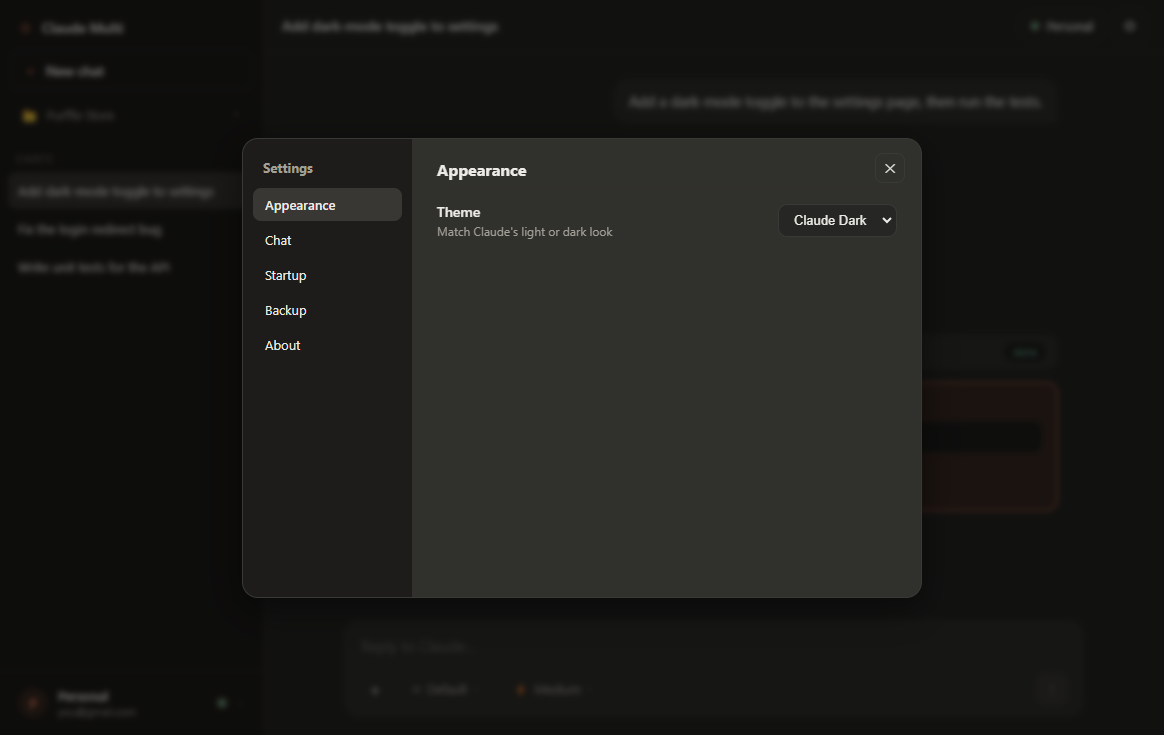
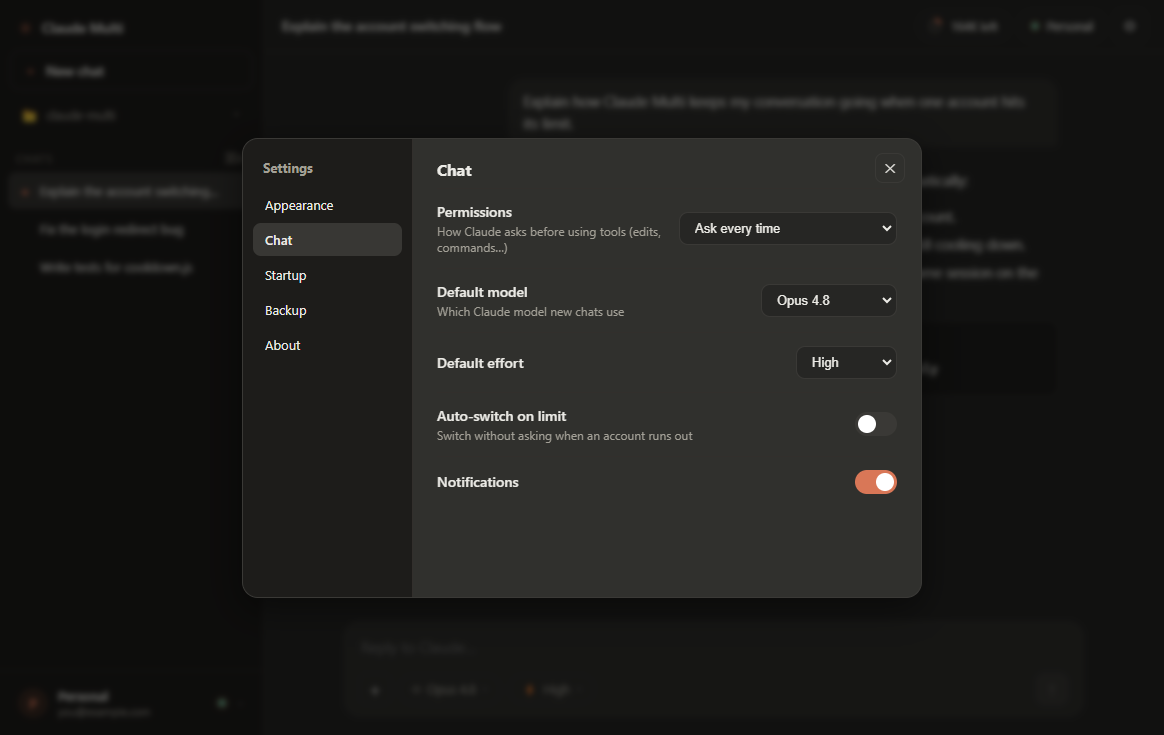
v1.7.0: fix image paste, versioned model selector, live token meter
Fixes
- Image paste was broken because Electron 33 removed the non-standard
  File.path property, so pasted/dropped files resolved to undefined and
  clipboard image-files fell through to clipboard.readImage() (empty ->
  "No image on the clipboard"). Now resolve real files via
  webUtils.getPathForFile, and paste image blobs by reading their bytes
  directly (works for screenshots, "copy image", and image files alike).
- Drag-and-drop attachments fixed the same way (getPathForFile + byte fallback).

Features
- Versioned model selector: Opus 4.8 / 4.7 / 4.6, Sonnet 5 / 4.6, Haiku 4.5
  in the composer chip and Settings; legacy aliases still recognised.
- Live token meter in the top bar: shows tokens remaining in the context
  window with a ring, and a popover breakdown (context used, cache reads,
  session output tokens + cost, and the model actually running). Persists
  per conversation.
- Command palette: quick model / effort switching and jump-to-usage.

Refresh main + settings screenshots; add usage + models screenshots.

diff --git a/src/renderer/renderer.js b/src/renderer/renderer.js
@@ -129,11 +129,23 @@ function renderTop() {
   $('topTitle').textContent = c ? (c.title || 'New chat') : (state.running ? 'Chat' : 'New chat');
   renderModelLabel();
 }
-const MODELS = [['', 'Default'], ['opus', 'Opus'], ['sonnet', 'Sonnet'], ['haiku', 'Haiku']];
+const MODELS = [
+  ['', 'Default (account)'],
+  ['claude-opus-4-8', 'Opus 4.8'],
+  ['claude-opus-4-7', 'Opus 4.7'],
+  ['claude-opus-4-6', 'Opus 4.6'],
+  ['claude-sonnet-5', 'Sonnet 5'],
+  ['claude-sonnet-4-6', 'Sonnet 4.6'],
+  ['claude-haiku-4-5', 'Haiku 4.5'],
+];
+// Legacy aliases → friendly labels, so an older stored setting still reads right.
+const MODEL_ALIASES = { opus: 'Opus', sonnet: 'Sonnet', haiku: 'Haiku' };
 const EFFORTS = [['low', 'Low'], ['medium', 'Medium'], ['high', 'High'], ['ultra', 'Ultrathink']];
-function labelFor(list, id, fb) { const f = list.find((x) => x[0] === id); return f ? f[1] : fb; }
+function labelFor(list, id, fb) { const f = list.find((x) => x[0] === id); if (f) return f[1]; if (list === MODELS && MODEL_ALIASES[id]) return MODEL_ALIASES[id]; return fb; }
+// Short label for the compact chip (drop the "(account)" suffix).
+function shortModelLabel(id) { return labelFor(MODELS, id || '', 'Default').replace(' (account)', ''); }
 function renderModelLabel() {
-  $('modelChipLabel').textContent = labelFor(MODELS, (state.settings && state.settings.model) || '', 'Default');
+  $('modelChipLabel').textContent = shortModelLabel((state.settings && state.settings.model) || '');
   $('effortChipLabel').textContent = labelFor(EFFORTS, (state.settings && state.settings.effort) || 'medium', 'Medium');
 }
 function updateComposer() {
@@ -159,7 +171,53 @@ function renderStarters() {
     box.appendChild(b);
   }
 }
-function renderAll() { renderProject(); renderConvos(); renderAccountRow(); renderTop(); updateComposer(); renderAttachments(); renderStarters(); }
+function renderAll() { renderProject(); renderConvos(); renderAccountRow(); renderTop(); updateComposer(); renderAttachments(); renderStarters(); renderUsage(); }
+
+/* ---------------- token / usage meter ---------------- */
+// Claude Code runs a 200K-token context window by default (the 1M window is a
+// separate opt-in this app doesn't enable), so we measure fill against that.
+const CONTEXT_WINDOW = 200000;
+let usage = { model: '', ctx: 0, lastOut: 0, lastCache: 0, sessOut: 0, sessCost: 0, turns: 0 };
+function resetUsage() { usage = { model: usage.model || '', ctx: 0, lastOut: 0, lastCache: 0, sessOut: 0, sessCost: 0, turns: 0 }; renderUsage(); }
+function applyTurnUsage(u, costUsd) {
+  if (u) {
+    const inp = u.input_tokens || 0;
+    const cacheR = u.cache_read_input_tokens || 0;
+    const cacheC = u.cache_creation_input_tokens || 0;
+    const out = u.output_tokens || 0;
+    usage.ctx = inp + cacheR + cacheC + out;      // ≈ tokens carried into the next turn
+    usage.lastOut = out;
+    usage.lastCache = cacheR + cacheC;
+    usage.sessOut += out;
+  }
+  if (costUsd) usage.sessCost += Number(costUsd) || 0;
+  usage.turns += 1;
+  renderUsage();
+}
+function fmtTokens(n) { n = Math.max(0, Math.round(n || 0)); if (n >= 1000) return (n / 1000).toFixed(n >= 100000 ? 0 : 1).replace(/\.0$/, '') + 'K'; return String(n); }
+function renderUsage() {
+  const pill = $('usagePill'); if (!pill) return;
+  const hasData = usage.ctx > 0 || usage.turns > 0;
+  pill.classList.toggle('hidden', !(state.running && hasData));
+  const pct = Math.max(0, Math.min(100, Math.round((usage.ctx / CONTEXT_WINDOW) * 100)));
+  const left = Math.max(0, CONTEXT_WINDOW - usage.ctx);
+  $('usagePillText').textContent = fmtTokens(left) + ' left';
+  const fill = $('usageRingFill');
+  if (fill) { fill.style.background = `conic-gradient(var(--accent) ${pct * 3.6}deg, var(--border) 0deg)`; }
+  pill.classList.toggle('warn', pct >= 85);
+  // popover
+  const bar = $('usageBar'); if (bar) { bar.style.width = pct + '%'; bar.classList.toggle('warn', pct >= 85); }
+  const set = (id, v) => { const el = $(id); if (el) el.textContent = v; };
+  set('usageModel', usage.model ? shortModelLabel(usage.model) : (shortModelLabel((state.settings || {}).model || '')));
+  set('usageCtxLine', `Context window · ${pct}% used`);
+  set('uCtx', fmtTokens(usage.ctx));
+  set('uLeft', fmtTokens(left));
+  set('uOut', fmtTokens(usage.lastOut));
+  set('uCache', fmtTokens(usage.lastCache));
+  set('uSessOut', fmtTokens(usage.sessOut));
+  set('uCost', '$' + (usage.sessCost || 0).toFixed(usage.sessCost >= 1 ? 2 : 4));
+}
+$('usagePill').onclick = (e) => { e.stopPropagation(); const m = $('usageMenu'); const showing = !m.classList.contains('hidden'); closeMenus(); if (showing) return; renderUsage(); m.classList.remove('hidden'); const r = e.currentTarget.getBoundingClientRect(); m.style.left = Math.max(8, Math.min(r.left, window.innerWidth - 288)) + 'px'; m.style.top = (r.bottom + 8) + 'px'; };
 
 /* ---------------- transcript ---------------- */
 const transcript = $('transcript');
@@ -242,8 +300,12 @@ function appendAssistantDOM(blocks) {
 function renderHistory(log) {
   clearTranscript();
   convo = Array.isArray(log) ? log.map((m) => ({ ...m })) : [];
+  resetUsage();
   if (!convo.length) { const w = $('welcome'); if (w) w.classList.remove('hidden'); return; }
-  for (const m of convo) { if (m.role === 'user') appendUserDOM(m.text); else appendAssistantDOM(m.blocks); }
+  for (const m of convo) {
+    if (m.role === 'user') appendUserDOM(m.text);
+    else { appendAssistantDOM(m.blocks); if (m.usage || m.costUsd) applyTurnUsage(m.usage, m.costUsd); }
+  }
   scrollDown(true);
 }
 function addUserMessage(text) { convo.push({ role: 'user', text }); appendUserDOM(text); persist(); scrollDown(true); }
@@ -278,7 +340,7 @@ function onToolResult(id, isError, text) {
   scrollDown();
 }
 function onErrorLine(text) { hideWelcome(); const el = document.createElement('div'); el.className = 'err-line'; el.textContent = '⚠ ' + text; if (turn && turn.body) turn.body.appendChild(el); else wrap(el); scrollDown(true); }
-function endTurn(meta) { if (turn && turn.blocks.length) { convo.push({ role: 'assistant', blocks: turn.blocks }); persist(); if (turn.msg) decorateAssistant(turn.msg, meta); } turn = null; }
+function endTurn(meta) { if (turn && turn.blocks.length) { convo.push({ role: 'assistant', blocks: turn.blocks, usage: meta && meta.usage, costUsd: meta && meta.costUsd }); persist(); if (turn.msg) decorateAssistant(turn.msg, meta); } turn = null; }
 
 /* ---------------- permission cards ---------------- */
 function onPermission(requestId, tool, input) {
@@ -299,13 +361,14 @@ function summarizePerm(tool, i) { if (!i) return ''; if (i.command) return '$ ' 
 /* ---------------- chat events ---------------- */
 cc.onChat((ev) => {
   switch (ev.type) {
+    case 'ready': if (ev.model) { usage.model = ev.model; renderUsage(); } break;
     case 'assistant_delta': onAssistantDelta(ev.text); break;
     case 'assistant_text': onAssistantText(ev.text); break;
     case 'thinking': onThinking(ev.text); break;
     case 'tool_use': onToolUse(ev.id, ev.name, ev.input); break;
     case 'tool_result': onToolResult(ev.id, ev.isError, ev.text); break;
     case 'permission': onPermission(ev.requestId, ev.tool, ev.input); break;
-    case 'turn_end': endTurn({ usage: ev.usage, costUsd: ev.costUsd }); break;
+    case 'turn_end': applyTurnUsage(ev.usage, ev.costUsd); endTurn({ usage: ev.usage, costUsd: ev.costUsd }); break;
     case 'auth_failed': endTurn(); onErrorLine('This account is not signed in. Open the account switcher and Log in.'); break;
     case 'error': endTurn(); onErrorLine(ev.text || 'Something went wrong.'); break;
     case 'limit': endTurn(); break;
@@ -348,16 +411,46 @@ $('input').addEventListener('keydown', (e) => {
   if (wantSend) { e.preventDefault(); sendMessage(); }
 });
 // Paste images (screenshots / copied images) or files straight into the chat.
+// Electron 32+ removed File.path, so we resolve real files via getPathForFile
+// and handle image blobs by reading their bytes directly — that works even when
+// the OS clipboard holds the image in a format clipboard.readImage can't decode.
 $('input').addEventListener('paste', async (e) => {
   const dt = e.clipboardData; if (!dt) return;
-  const files = Array.from(dt.files || []).map((f) => f.path).filter(Boolean);
-  if (files.length) { e.preventDefault(); attachments = attachments.concat(files); renderAttachments(); toast(files.length + ' file' + (files.length > 1 ? 's' : '') + ' attached', 'ok'); return; }
-  const hasImage = Array.from(dt.items || []).some((it) => it.type && it.type.startsWith('image/'));
-  if (hasImage) {
+  // 1) Real on-disk files (copied in Explorer/Finder, dragged from another app).
+  const filePaths = Array.from(dt.files || []).map((f) => cc.getPathForFile(f)).filter(Boolean);
+  if (filePaths.length) {
     e.preventDefault();
+    attachments = attachments.concat(filePaths); renderAttachments();
+    toast(filePaths.length + ' file' + (filePaths.length > 1 ? 's' : '') + ' attached', 'ok');
+    return;
+  }
+  // 2) Image blobs with no filesystem path (screenshots, "copy image", etc.).
+  const imageItems = Array.from(dt.items || []).filter((it) => it.kind === 'file' && it.type && it.type.startsWith('image/'));
+  if (imageItems.length) {
+    e.preventDefault();
+    let added = 0;
+    for (const it of imageItems) {
+      const file = it.getAsFile(); if (!file) continue;
+      try {
+        const bytes = new Uint8Array(await file.arrayBuffer());
+        const ext = ((file.type.split('/')[1] || 'png').toLowerCase()).replace('jpeg', 'jpg');
+        const r = await cc.savePastedImage(bytes, ext);
+        if (r && r.ok) { attachments.push(r.path); added++; }
+      } catch { /* skip this blob */ }
+    }
+    if (added) { renderAttachments(); toast('Image pasted', 'ok'); }
+    else {
+      // 3) Last resort: pull whatever bitmap the OS clipboard has.
+      const r = await cc.pasteImage();
+      if (r && r.ok) { attachments.push(r.path); renderAttachments(); toast('Image pasted', 'ok'); }
+      else toast((r && r.error) || 'Could not paste image', 'err');
+    }
+    return;
+  }
+  // 4) Nothing usable in the paste event — try the OS clipboard bitmap directly.
+  if (!dt.getData || !dt.getData('text')) {
     const r = await cc.pasteImage();
-    if (r && r.ok) { attachments.push(r.path); renderAttachments(); toast('Image pasted', 'ok'); }
-    else toast((r && r.error) || 'Could not paste image', 'err');
+    if (r && r.ok) { e.preventDefault(); attachments.push(r.path); renderAttachments(); toast('Image pasted', 'ok'); }
   }
 });
 $('stopBtn').onclick = () => cc.interrupt();
@@ -376,8 +469,8 @@ async function addAccount() {
 }
 
 /* ---------------- menus ---------------- */
-function closeMenus() { document.querySelectorAll('.menu.ctx').forEach((n) => n.remove()); $('modelMenu').classList.add('hidden'); $('effortMenu').classList.add('hidden'); }
-document.addEventListener('click', (e) => { if (!e.target.closest('.menu') && !e.target.closest('#accountBtn') && !e.target.closest('#switchPill') && !e.target.closest('#modelChip') && !e.target.closest('#effortChip') && !e.target.closest('.convo-more')) closeMenus(); });
+function closeMenus() { document.querySelectorAll('.menu.ctx').forEach((n) => n.remove()); $('modelMenu').classList.add('hidden'); $('effortMenu').classList.add('hidden'); $('usageMenu').classList.add('hidden'); }
+document.addEventListener('click', (e) => { if (!e.target.closest('.menu') && !e.target.closest('#accountBtn') && !e.target.closest('#switchPill') && !e.target.closest('#modelChip') && !e.target.closest('#effortChip') && !e.target.closest('#usagePill') && !e.target.closest('.convo-more')) closeMenus(); });
 function openChipMenu(menuId, list, key, onPick) {
   const menu = $(menuId);
   if (!menu.classList.contains('hidden')) { menu.classList.add('hidden'); return; }
@@ -508,6 +601,15 @@ function buildCommands() {
   cmds.push({ icon: '🎨', label: 'Toggle light / dark theme', run: async () => { const cur = (state.settings || {}).theme; const next = cur === 'light' ? 'dark' : 'light'; applyTheme(next); state.settings = await cc.setSettings({ theme: next }); } });
   cmds.push({ icon: '⚙', label: 'Open settings', run: () => openSettings() });
   cmds.push({ icon: '⌨', label: 'Keyboard shortcuts', hint: 'Ctrl+/', run: () => $('shortcutsModal').classList.remove('hidden') });
+  // Quick model switch
+  for (const [id, label] of MODELS) {
+    cmds.push({ icon: '◇', label: 'Model: ' + label, hint: (state.settings || {}).model === id ? 'current' : '', run: async () => { state.settings = await cc.setSettings({ model: id }); renderModelLabel(); toast('Model: ' + label, 'ok'); } });
+  }
+  // Quick effort switch
+  for (const [id, label] of EFFORTS) {
+    cmds.push({ icon: '⚡', label: 'Effort: ' + label, hint: ((state.settings || {}).effort || 'medium') === id ? 'current' : '', run: async () => { state.settings = await cc.setSettings({ effort: id }); renderModelLabel(); toast('Effort: ' + label, 'ok'); } });
+  }
+  cmds.push({ icon: '📊', label: 'Show token usage for this chat', run: () => { if (!$('usagePill').classList.contains('hidden')) $('usagePill').click(); else toast('Usage appears once a chat is running', 'ok'); } });
   cmds.push({ icon: '🐙', label: 'Open project on GitHub', run: () => cc.openExternal('https://github.com/Chamanrajragu/claude-multi') });
   for (const a of state.accounts) {
     const v = accView(a);
@@ -562,9 +664,22 @@ window.addEventListener('keydown', (e) => {
 (() => {
   const drop = $('main');
   ['dragover', 'drop'].forEach((ev) => drop.addEventListener(ev, (e) => { e.preventDefault(); e.stopPropagation(); }));
-  drop.addEventListener('drop', (e) => {
-    const files = Array.from((e.dataTransfer && e.dataTransfer.files) || []).map((f) => f.path).filter(Boolean);
-    if (files.length) { attachments = attachments.concat(files); renderAttachments(); toast(files.length + ' file' + (files.length > 1 ? 's' : '') + ' attached', 'ok'); }
+  drop.addEventListener('drop', async (e) => {
+    const list = Array.from((e.dataTransfer && e.dataTransfer.files) || []);
+    const files = list.map((f) => cc.getPathForFile(f)).filter(Boolean);
+    if (files.length) { attachments = attachments.concat(files); renderAttachments(); toast(files.length + ' file' + (files.length > 1 ? 's' : '') + ' attached', 'ok'); return; }
+    // Dropped an image with no path (e.g. dragged out of a browser) — save its bytes.
+    let added = 0;
+    for (const f of list) {
+      if (!f.type || !f.type.startsWith('image/')) continue;
+      try {
+        const bytes = new Uint8Array(await f.arrayBuffer());
+        const ext = ((f.type.split('/')[1] || 'png').toLowerCase()).replace('jpeg', 'jpg');
+        const r = await cc.savePastedImage(bytes, ext);
+        if (r && r.ok) { attachments.push(r.path); added++; }
+      } catch { /* skip */ }
+    }
+    if (added) { renderAttachments(); toast(added + ' image' + (added > 1 ? 's' : '') + ' attached', 'ok'); }
   });
 })();
 

diff --git a/src/renderer/index.html b/src/renderer/index.html
@@ -51,6 +51,10 @@
       <header id="topbar">
         <div id="topTitle" class="top-title">New chat</div>
         <div class="top-actions">
+          <button id="usagePill" class="pill usage-pill hidden" title="Token usage this chat">
+            <span class="usage-ring"><span id="usageRingFill" class="usage-ring-fill"></span></span>
+            <span id="usagePillText" class="usage-pill-text">—</span>
+          </button>
           <button id="switchPill" class="pill" title="Switch account"><span id="switchDot" class="dot off"></span><span id="switchName">No account</span></button>
           <button id="settingsTop" class="icon-btn" title="Settings">⚙</button>
         </div>
@@ -144,8 +148,8 @@
           <h3>Chat</h3>
           <div class="setting-row"><div><div class="s-title">Permissions</div><div class="s-sub">How Claude asks before using tools (edits, commands…)</div></div>
             <select id="setPermission"><option value="ask">Ask every time</option><option value="acceptEdits">Auto-accept file edits</option><option value="bypass">Allow everything (no prompts)</option></select></div>
-          <div class="setting-row"><div><div class="s-title">Default model</div></div>
-            <select id="setModel"><option value="">Account default</option><option value="opus">Opus</option><option value="sonnet">Sonnet</option><option value="haiku">Haiku</option></select></div>
+          <div class="setting-row"><div><div class="s-title">Default model</div><div class="s-sub">Which Claude model new chats use</div></div>
+            <select id="setModel"><option value="">Account default</option><option value="claude-opus-4-8">Opus 4.8</option><option value="claude-opus-4-7">Opus 4.7</option><option value="claude-opus-4-6">Opus 4.6</option><option value="claude-sonnet-5">Sonnet 5</option><option value="claude-sonnet-4-6">Sonnet 4.6</option><option value="claude-haiku-4-5">Haiku 4.5</option></select></div>
           <div class="setting-row"><div><div class="s-title">Default effort</div></div>
             <select id="setEffort"><option value="low">Low</option><option value="medium">Medium</option><option value="high">High</option><option value="ultra">Ultrathink</option></select></div>
           <div class="setting-row"><div><div class="s-title">Auto-switch on limit</div><div class="s-sub">Switch without asking when an account runs out</div></div>
@@ -206,6 +210,25 @@
         <div class="sc-key">Esc</div><div class="sc-desc">Close a dialog / menu</div>
       </div>
     </div>
+  </div>
+
+  <!-- ============ USAGE POPOVER ============ -->
+  <div id="usageMenu" class="menu usage-menu hidden">
+    <div class="usage-head">
+      <span class="usage-title">Usage this chat</span>
+      <span id="usageModel" class="usage-model">—</span>
+    </div>
+    <div class="usage-bar-wrap"><div id="usageBar" class="usage-bar"></div></div>
+    <div id="usageCtxLine" class="usage-ctx-line">Context window</div>
+    <div class="usage-grid">
+      <div class="usage-cell"><span class="uc-label">Context used</span><span id="uCtx" class="uc-val">0</span></div>
+      <div class="usage-cell"><span class="uc-label">Remaining</span><span id="uLeft" class="uc-val">—</span></div>
+      <div class="usage-cell"><span class="uc-label">Last turn out</span><span id="uOut" class="uc-val">0</span></div>
+      <div class="usage-cell"><span class="uc-label">Cache read</span><span id="uCache" class="uc-val">0</span></div>
+      <div class="usage-cell"><span class="uc-label">Session out</span><span id="uSessOut" class="uc-val">0</span></div>
+      <div class="usage-cell"><span class="uc-label">Session cost</span><span id="uCost" class="uc-val">$0.00</span></div>
+    </div>
+    <div class="usage-foot">Context is an estimate from the last turn. Subscription limits reset periodically.</div>
   </div>
 
   <div id="toast" class="toast hidden"></div>

diff --git a/src/renderer/styles.css b/src/renderer/styles.css
@@ -312,6 +312,27 @@ button { font-family: inherit; color: inherit; }
 .cmdk-item.active, .cmdk-item:hover { background: var(--active); }
 .cmdk-empty { padding: 18px; text-align: center; color: var(--faint); font-size: 13px; }
 
+/* ================= token / usage meter ================= */
+.usage-pill { gap: 8px; padding: 5px 12px 5px 8px; }
+.usage-pill.warn { border-color: var(--warn); color: var(--warn); }
+.usage-ring { width: 16px; height: 16px; border-radius: 50%; flex: none; display: grid; place-items: center; background: var(--border); }
+.usage-ring-fill { width: 16px; height: 16px; border-radius: 50%; background: conic-gradient(var(--accent) 0deg, var(--border) 0deg); -webkit-mask: radial-gradient(circle 4px at center, transparent 98%, #000 100%); mask: radial-gradient(circle 4px at center, transparent 98%, #000 100%); }
+.usage-pill-text { font-variant-numeric: tabular-nums; font-size: 12px; }
+
+.usage-menu { width: 280px; padding: 14px; cursor: default; }
+.usage-head { display: flex; align-items: center; justify-content: space-between; margin-bottom: 10px; }
+.usage-title { font-size: 12.5px; font-weight: 600; }
+.usage-model { font-size: 11px; color: var(--accent); background: var(--accent-soft); padding: 2px 8px; border-radius: 999px; }
+.usage-bar-wrap { height: 8px; border-radius: 999px; background: var(--border); overflow: hidden; }
+.usage-bar { height: 100%; width: 0; background: var(--accent); border-radius: 999px; transition: width .25s; }
+.usage-bar.warn { background: var(--warn); }
+.usage-ctx-line { font-size: 11px; color: var(--muted); margin: 6px 0 12px; }
+.usage-grid { display: grid; grid-template-columns: 1fr 1fr; gap: 10px 12px; }
+.usage-cell { display: flex; flex-direction: column; gap: 2px; }
+.uc-label { font-size: 10.5px; color: var(--faint); text-transform: uppercase; letter-spacing: .04em; }
+.uc-val { font-size: 15px; font-weight: 600; font-variant-numeric: tabular-nums; }
+.usage-foot { font-size: 10.5px; color: var(--faint); line-height: 1.5; margin-top: 12px; border-top: 1px solid var(--border-soft); padding-top: 10px; }
+
 /* shortcuts sheet */
 .shortcuts-modal { width: 460px; }
 .shortcut-grid { display: grid; grid-template-columns: auto 1fr; gap: 10px 16px; align-items: center; }

diff --git a/src/main.js b/src/main.js
@@ -557,6 +557,22 @@ function registerIpc() {
       return { ok: true, path: p };
     } catch (e) { return { ok: false, error: String(e.message || e) }; }
   });
+  // Write the raw bytes of a pasted image blob (already decoded by the renderer
+  // from the paste event) to a temp file and return its path. This is the
+  // reliable image-paste path: the browser hands us the actual pixels, so it
+  // works for screenshots, "copy image" from a browser, and image files alike —
+  // regardless of which clipboard format the OS used.
+  ipcMain.handle('app:savePastedImage', (_e, bytes, ext) => {
+    try {
+      if (!bytes || !bytes.length) return { ok: false, error: 'Empty image' };
+      const safeExt = /^(png|jpg|jpeg|gif|webp|bmp)$/i.test(String(ext || '')) ? String(ext).toLowerCase() : 'png';
+      const dir = path.join(os.tmpdir(), 'claude-multi-paste');
+      fs.mkdirSync(dir, { recursive: true });
+      const p = path.join(dir, 'paste-' + Date.now() + '-' + Math.floor(Math.random() * 1e4) + '.' + safeExt);
+      fs.writeFileSync(p, Buffer.from(bytes));
+      return { ok: true, path: p };
+    } catch (e) { return { ok: false, error: String(e.message || e) }; }
+  });
   ipcMain.handle('app:openExternal', (_e, url) => { if (/^https?:\/\//i.test(url)) shell.openExternal(url); return true; });
   ipcMain.handle('app:openConfigDir', (_e, id) => { const a = store.byId(id); if (a) shell.openPath(a.configDir); return true; });
   ipcMain.handle('app:info', () => ({

diff --git a/src/preload.js b/src/preload.js
@@ -1,5 +1,5 @@
 // Secure bridge between the renderer and the main process (chat rebuild).
-const { contextBridge, ipcRenderer, clipboard } = require('electron');
+const { contextBridge, ipcRenderer, clipboard, webUtils } = require('electron');
 
 contextBridge.exposeInMainWorld('cc', {
   // ---- state / accounts / project / settings ----
@@ -40,6 +40,14 @@ contextBridge.exposeInMainWorld('cc', {
   // ---- misc ----
   pickFiles: () => ipcRenderer.invoke('app:pickFiles'),
   pasteImage: () => ipcRenderer.invoke('app:pasteImage'),
+  // Electron 32+ removed the non-standard File.path property; webUtils is the
+  // supported way to get the real on-disk path of a dropped / pasted File.
+  getPathForFile: (file) => { try { return webUtils.getPathForFile(file) || ''; } catch { return ''; } },
+  // Persist raw bytes (a pasted screenshot / copied image blob) to a temp file
+  // and get back a path we can attach like any other file. This works even when
+  // the OS clipboard holds the image in a format Electron's clipboard.readImage
+  // can't decode (e.g. an image file copied from Explorer).
+  savePastedImage: (bytes, ext) => ipcRenderer.invoke('app:savePastedImage', bytes, ext),
   exportConfig: () => ipcRenderer.invoke('app:export'),
   importConfig: () => ipcRenderer.invoke('app:import'),
   openExternal: (url) => ipcRenderer.invoke('app:openExternal', url),

diff --git a/README.md b/README.md
@@ -6,7 +6,7 @@
 
 **Run [Claude Code](https://claude.com/claude-code) with several accounts in one app — and switch automatically the moment one hits its usage limit.**
 
-[![tests](https://img.shields.io/badge/tests-47%20passing-brightgreen)](test)
+[![tests](https://img.shields.io/badge/tests-50%20passing-brightgreen)](test)
 [![License: MIT](https://img.shields.io/badge/license-MIT-blue.svg)](LICENSE)
 ![Platform](https://img.shields.io/badge/platform-Windows%20%7C%20macOS%20%7C%20Linux-lightgrey)
 ![Free](https://img.shields.io/badge/price-100%25%20free-brightgreen)
@@ -43,12 +43,13 @@ No credential hacking, nothing against the rules — each account simply gets it
 
 - 💬 **A real chat interface, not a terminal** — talk to Claude in a clean chat window: streamed markdown replies, collapsible **tool cards** (edits, commands, searches), and inline **Allow / Deny** prompts before Claude touches your files.
 - 🛡️ **Permission modes** — keep the safe **Ask every time**, switch to **Auto-accept file edits**, or go hands-free with **Allow everything (no prompts)** — set it once in Settings → Chat.
-- 📎 **Paste & drop attachments** — paste a screenshot or copied image straight into the composer, or drag files onto the window.
+- 📎 **Paste & drop attachments** — paste a screenshot or copied image straight into the composer (reads the image bytes directly, so it works even for images copied from a browser or file explorer), or drag files onto the window.
+- 📊 **Live token meter** — a top-bar pill shows how much of the context window this chat has used and **how many tokens are left**; open it for a full breakdown (context used, cache reads, session output tokens and cost) plus the model actually running.
 - 🔁 **One conversation, any account** — your chat belongs to the **project**, not the account. Switch accounts and the conversation is carried over and continues right where it left off; the full history stays visible when you switch back or reopen the app.
 - 🔄 **Auto-switch on usage limit** — the moment an account hits its Claude usage/session limit, Claude Multi rotates to the next available account (or asks first). No more waiting hours for a reset when you have another account idle.
 - ⏳ **Cooldown tracking** — remembers when each rate-limited account resets and skips accounts that are still cooling down, picking the one that frees up soonest.
 - 🧑🤝🧑 **Multiple accounts, fully isolated** — every account gets its own login/config directory (`CLAUDE_CONFIG_DIR`). No interference, no logging in and out by hand.
-- 🎛️ **Model + effort picker** — choose the model (**Opus / Sonnet / Haiku**) and thinking effort (**Low / Medium / High / Ultrathink**) right in the composer.
+- 🎛️ **Model + effort picker** — pick a specific model version (**Opus 4.8 / 4.7 / 4.6, Sonnet 5 / 4.6, Haiku 4.5**) and thinking effort (**Low / Medium / High / Ultrathink**) right in the composer or from the command palette.
 - 📁 **A preferred account per project** — each project folder remembers which account it uses.
 - 🔐 **Subscription login, no API key** — sign in each account once with your normal Claude subscription (Pro / Max / Team). Nothing is billed per token.
 - 🔔 **Desktop notifications** when a limit is hit or an account switches.
@@ -67,8 +68,10 @@ Claude Code is fantastic, but juggling several accounts by hand is painful: you 
 
 <div align="center">
 
-| Account switcher (Ctrl/Cmd + 1–9) | Auto-switch on limit |
+| Live token meter (how many tokens left) | Model selector |
 | --- | --- |
+| <img src="docs/screenshot-usage.png" width="410" alt="Token usage meter showing context used, tokens remaining and session cost" /> | <img src="docs/screenshot-models.png" width="410" alt="Model selector: Opus 4.8 / 4.7 / 4.6, Sonnet 5 / 4.6, Haiku 4.5" /> |
+| Account switcher (Ctrl/Cmd + 1–9) | Auto-switch on limit |
 | <img src="docs/screenshot-accounts.png" width="410" alt="Account switcher showing multiple Claude accounts with cooldown status" /> | <img src="docs/screenshot-limit.png" width="410" alt="Usage limit reached — switch account dialog" /> |
 | Settings | Light theme |
 | <img src="docs/screenshot-settings.png" width="410" alt="Settings" /> | <img src="docs/screenshot-light.png" width="410" alt="Light theme" /> |